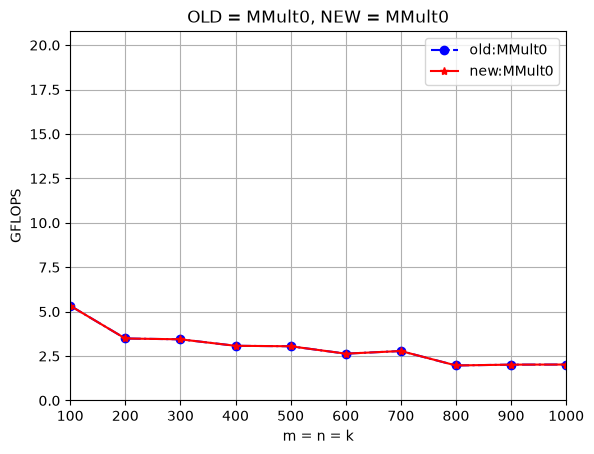
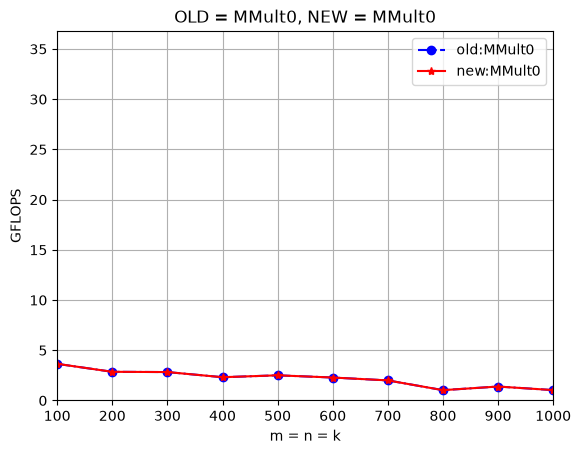
修正最大主频，以及行主序的错误后，重新测试。使用向量化后，会有稍许误差

Changed region(s): [[0.0, 0.0, 0.9914, 0.9868], [0.7126, 0.1542, 0.7435, 0.185]]

diff --git a/images/output_MMult2_1x4_3.m b/images/output_MMult2_1x4_3.m
@@ -1,0 +1,13 @@
+version = 'MMult2_1x4_3';
+MY_MMult = [
+100 4.201681e+00 0.000000e+00 
+200 3.467707e+00 0.000000e+00 
+300 2.988875e+00 0.000000e+00 
+400 2.533098e+00 0.000000e+00 
+500 2.638077e+00 0.000000e+00 
+600 2.299744e+00 0.000000e+00 
+700 2.153373e+00 0.000000e+00 
+800 1.430359e+00 0.000000e+00 
+900 1.567417e+00 0.000000e+00 
+1000 1.512775e+00 0.000000e+00 
+];

diff --git a/images/output_MMult2_1x4_4.m b/images/output_MMult2_1x4_4.m
@@ -1,0 +1,13 @@
+version = 'MMult2_1x4_4';
+MY_MMult = [
+100 4.210526e+00 0.000000e+00 
+200 3.434951e+00 0.000000e+00 
+300 2.974223e+00 0.000000e+00 
+400 2.353071e+00 0.000000e+00 
+500 2.518181e+00 0.000000e+00 
+600 2.339371e+00 0.000000e+00 
+700 1.998596e+00 0.000000e+00 
+800 1.409750e+00 0.000000e+00 
+900 1.714425e+00 0.000000e+00 
+1000 1.510452e+00 0.000000e+00 
+];

diff --git a/images/output_MMult2_1x4_5.m b/images/output_MMult2_1x4_5.m
@@ -1,0 +1,13 @@
+version = 'MMult2_1x4_5';
+MY_MMult = [
+100 5.263158e+00 0.000000e+00 
+200 4.901961e+00 0.000000e+00 
+300 4.001482e+00 0.000000e+00 
+400 3.404527e+00 0.000000e+00 
+500 3.488405e+00 0.000000e+00 
+600 3.175093e+00 0.000000e+00 
+700 2.772154e+00 0.000000e+00 
+800 2.296623e+00 0.000000e+00 
+900 1.874200e+00 0.000000e+00 
+1000 1.779502e+00 0.000000e+00 
+];

diff --git a/images/output_MMult2_1x4_6.m b/images/output_MMult2_1x4_6.m
@@ -1,0 +1,13 @@
+version = 'MMult2_1x4_6';
+MY_MMult = [
+100 1.169591e+01 3.552714e-15 
+200 1.152738e+01 7.105427e-15 
+300 9.241828e+00 2.131628e-14 
+400 5.903514e+00 1.776357e-14 
+500 5.531096e+00 1.421085e-14 
+600 4.473346e+00 2.131628e-14 
+700 4.417684e+00 2.842171e-14 
+800 2.757135e+00 3.552714e-14 
+900 2.773376e+00 3.197442e-14 
+1000 2.361342e+00 4.263256e-14 
+];

diff --git a/images/output_MMult2_1x4_7.m b/images/output_MMult2_1x4_7.m
@@ -1,0 +1,13 @@
+version = 'MMult2_1x4_7';
+MY_MMult = [
+100 1.183432e+01 3.552714e-15 
+200 9.433962e+00 7.105427e-15 
+300 8.784773e+00 2.131628e-14 
+400 5.574185e+00 1.776357e-14 
+500 5.446030e+00 1.421085e-14 
+600 4.562593e+00 2.131628e-14 
+700 5.092837e+00 2.842171e-14 
+800 3.276003e+00 3.552714e-14 
+900 2.729003e+00 3.197442e-14 
+1000 2.646332e+00 4.263256e-14 
+];

diff --git a/images/output_MMult2_1x4_8.m b/images/output_MMult2_1x4_8.m
@@ -1,0 +1,13 @@
+version = 'MMult2_1x4_8';
+MY_MMult = [
+100 9.615385e+00 3.552714e-15 
+200 9.467456e+00 7.105427e-15 
+300 7.431874e+00 2.131628e-14 
+400 6.405765e+00 1.776357e-14 
+500 5.486788e+00 1.421085e-14 
+600 4.063932e+00 2.131628e-14 
+700 4.403533e+00 2.842171e-14 
+800 3.042693e+00 3.552714e-14 
+900 2.345390e+00 3.197442e-14 
+1000 2.491594e+00 4.263256e-14 
+];

diff --git a/images/output_MMult2_1x4.m b/images/output_MMult2_1x4.m
@@ -1,0 +1,13 @@
+version = 'MMult2_1x4';
+MY_MMult = [
+100 4.255319e+00 0.000000e+00 
+200 3.028009e+00 0.000000e+00 
+300 3.058970e+00 0.000000e+00 
+400 2.407916e+00 0.000000e+00 
+500 2.710438e+00 0.000000e+00 
+600 2.260880e+00 0.000000e+00 
+700 2.175471e+00 0.000000e+00 
+800 8.413400e-01 0.000000e+00 
+900 1.446464e+00 0.000000e+00 
+1000 1.534936e+00 0.000000e+00 
+];

diff --git a/images/output_MMult0.m b/images/output_MMult0.m
@@ -1,0 +1,13 @@
+version = 'MMult0';
+MY_MMult = [
+100 3.649635e+00 0.000000e+00 
+200 2.856633e+00 0.000000e+00 
+300 2.830931e+00 0.000000e+00 
+400 2.318295e+00 0.000000e+00 
+500 2.506467e+00 0.000000e+00 
+600 2.287009e+00 0.000000e+00 
+700 2.000257e+00 0.000000e+00 
+800 1.030117e+00 0.000000e+00 
+900 1.389666e+00 0.000000e+00 
+1000 1.035970e+00 0.000000e+00 
+];

diff --git a/images/output_MMult1.m b/images/output_MMult1.m
@@ -1,0 +1,13 @@
+version = 'MMult1';
+MY_MMult = [
+100 3.809524e+00 0.000000e+00 
+200 3.251372e+00 0.000000e+00 
+300 3.085362e+00 0.000000e+00 
+400 2.278188e+00 0.000000e+00 
+500 2.579926e+00 0.000000e+00 
+600 2.139334e+00 0.000000e+00 
+700 1.941874e+00 0.000000e+00 
+800 9.746227e-01 0.000000e+00 
+900 1.422138e+00 0.000000e+00 
+1000 1.404086e+00 0.000000e+00 
+];
